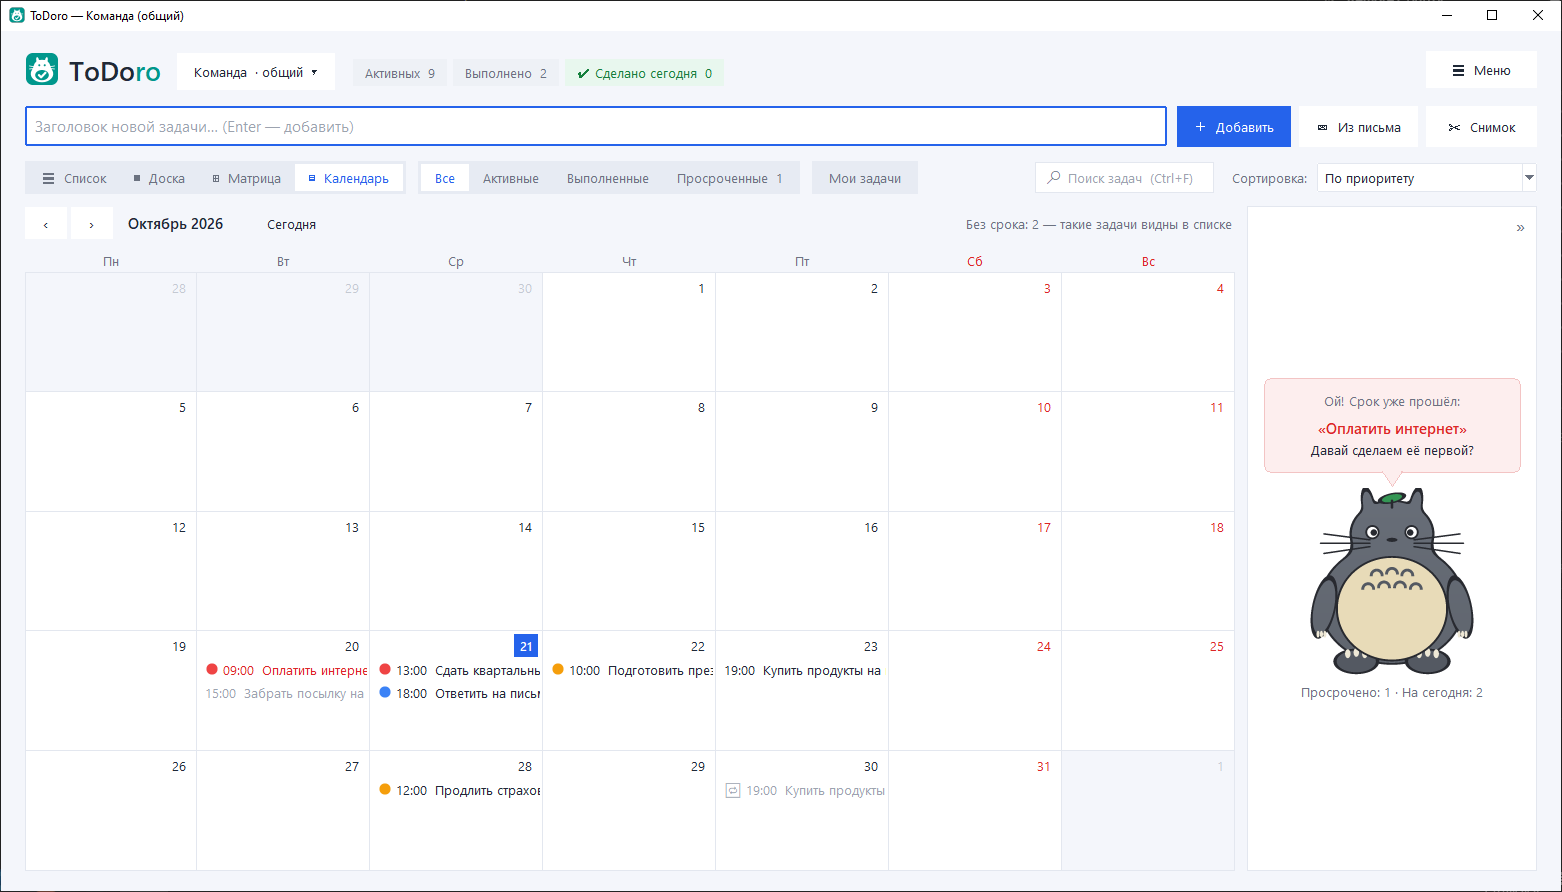
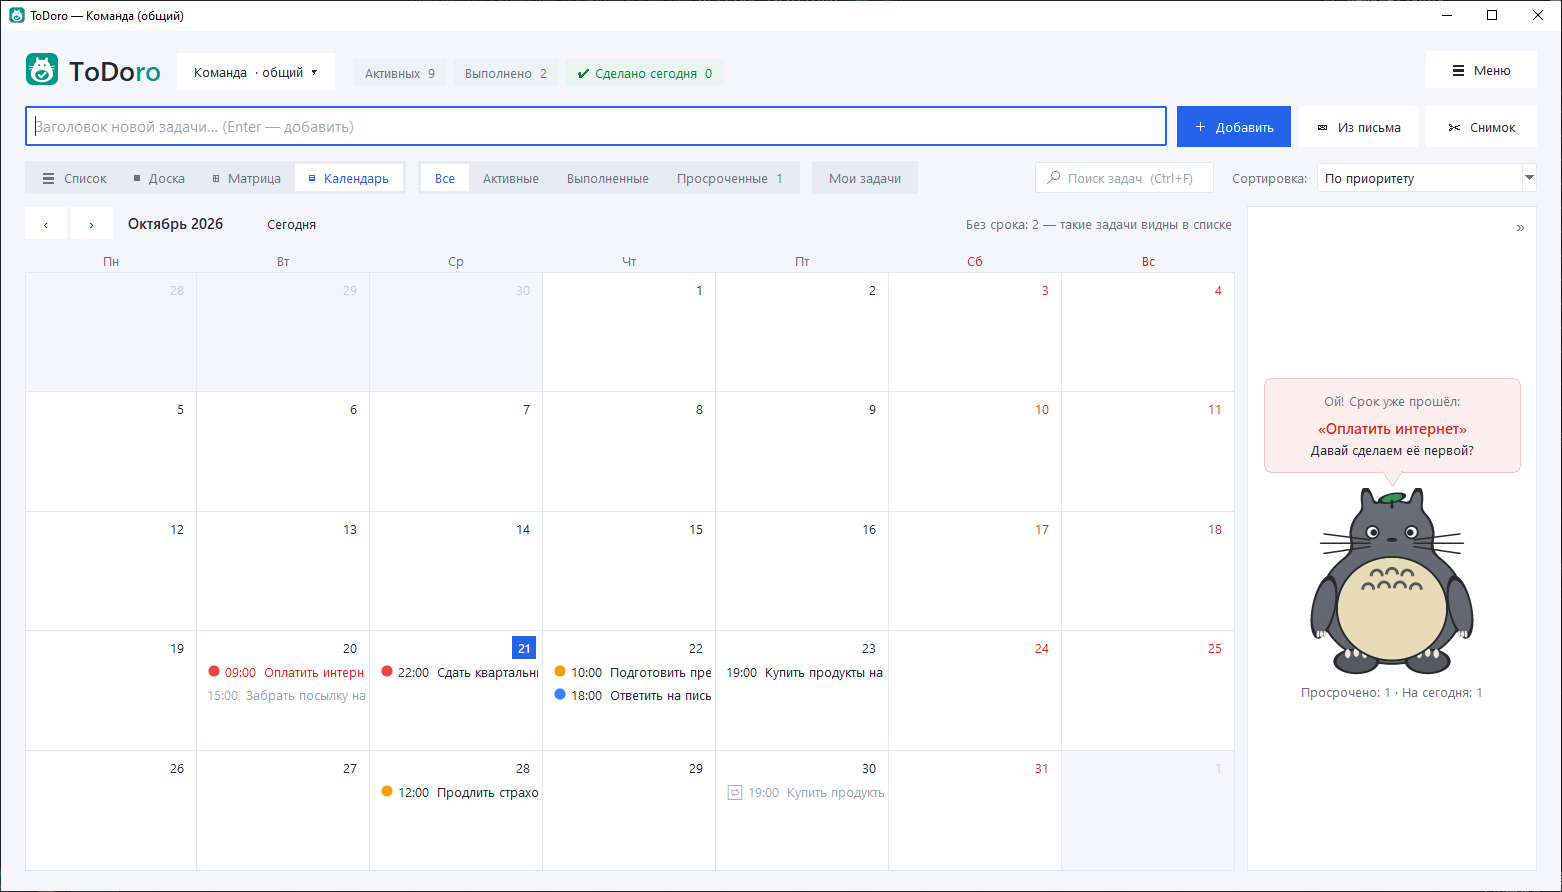
Версия 2.24

Changed region(s): [[0.1229, 0.7265, 0.5839, 0.787], [0.4609, 0.8778, 0.5839, 0.9081], [0.2458, 0.8778, 0.338, 0.9081]]

diff --git a/todoro.py b/todoro.py
@@ -37,7 +37,7 @@ from examples import make_examples
 from help_text import HELP
 
 APP_NAME = "ToDoro"  # ToDo + Totoro
-APP_VERSION = "2.23"  # номер версии — меняется здесь (установщик берёт его отсюда)
+APP_VERSION = "2.24"  # номер версии — меняется здесь (установщик берёт его отсюда)
 APP_YEAR = 2026
 COPYRIGHT_HOLDER = "Machinist"  # автор — имя меняется здесь и в файле LICENSE
 COPYRIGHT = f"© {APP_YEAR} {COPYRIGHT_HOLDER}"
@@ -6962,7 +6962,8 @@ class TodoApp:
             (lambda: self.views_frame, "Список, доска, матрица и календарь",
              "Список — таблица задач. Доска — колонки по статусам, задачи перетаскиваются "
              "мышью. Матрица Эйзенхауэра раскладывает задачи по важности и срочности. "
-             "Календарь показывает задачи по срокам на месяц вперёд."),
+             "Календарь показывает задачи по срокам на месяц вперёд — перетащите задачу на "
+             "другой день, и срок перенесётся."),
             (lambda: self.filters_frame, "Фильтры",
              "Показывают все задачи, только активные, выполненные или просроченные. "
              "На кнопке «Просроченные» — сколько их сейчас."),

diff --git a/tools/make_screenshots.py b/tools/make_screenshots.py
@@ -408,14 +408,14 @@ def shoot_smart():
 
 
 def shoot_tour():
-    """5в. Ознакомительный тур: шаг «Список, доска и матрица»."""
+    """5в. Ознакомительный тур: шаг «Список, доска, матрица и календарь»."""
     app.start_tour()
     tour = app.tour
     for window in (tour.tip, tour.frame):
         if window:
             window.attributes("-topmost", True)  # главное окно на время съёмки — поверх всех
     tour.hide_next.set(False)  # на снимке — как при первом запуске: галочка не стоит
-    tour.index = next(i for i, step in enumerate(tour.steps) if step[1] == "Список, доска и матрица")
+    tour.index = next(i for i, step in enumerate(tour.steps) if step[1].startswith("Список, доска"))
     tour.show_step()
     grab("tour.png")
     tour.hide_next.set(True)  # не меняем настройку: в базе для снимков тур и так выключен

diff --git a/RELEASE_NOTES.md b/RELEASE_NOTES.md
@@ -3,11 +3,19 @@
 Здесь записано, что менялось от версии к версии. Новые записи — сверху.
 Скачать установщик любой версии: https://github.com/machinist-soft/ToDoro/releases
 
-## Не выпущено
+## 2.24 — 21.10.2026
 
-- В «Календаре» задачу можно перетащить мышью на другой день — срок переносится на этот день, время остаётся прежним, напоминание сработает заново.
-- Письма .msg и другие файлы задачи снова открываются, даже если тот же файл уже открыт в Outlook (раньше повторное открытие давало ошибку «Permission denied»).
+### Новое
+
+- В «Календаре» задачу можно перетащить мышью на другой день — срок переносится на этот день, время остаётся прежним, напоминание сработает заново. Бледные будущие повторы со значком 🔁 не перетаскиваются — переносите саму задачу.
+
+### Улучшения
+
 - Сообщения об ошибках с файлами стали понятнее: причина написана по-русски, а путь к файлу — как в Проводнике, без удвоенных обратных косых черт.
+
+### Исправления
+
+- Письма .msg и другие файлы задачи снова открываются, даже если тот же файл уже открыт в Outlook (раньше повторное открытие давало ошибку «Permission denied»).
 
 ## 2.23 — 21.10.2026
 

diff --git a/README.md b/README.md
@@ -77,7 +77,7 @@ priority and checklist suggestions from similar tasks · a reminders window with
 overdue task, one click opens a task · file attachments, pasted
 screenshots and comments in every task · list, kanban board with
 custom columns and Eisenhower matrix (drag a card to another quadrant to change its priority),
-a month calendar with upcoming repeats,
+a month calendar with upcoming repeats (drag a task to another day to move its due date),
 filters, search, column sorting and drag-to-reorder columns · an optional business unit per task,
 picked from each list’s own directory · several lists, personal and shared with a team via a network
 folder (VPN works) · an Android app: personal and shared lists on your phone, comments, works offline,
